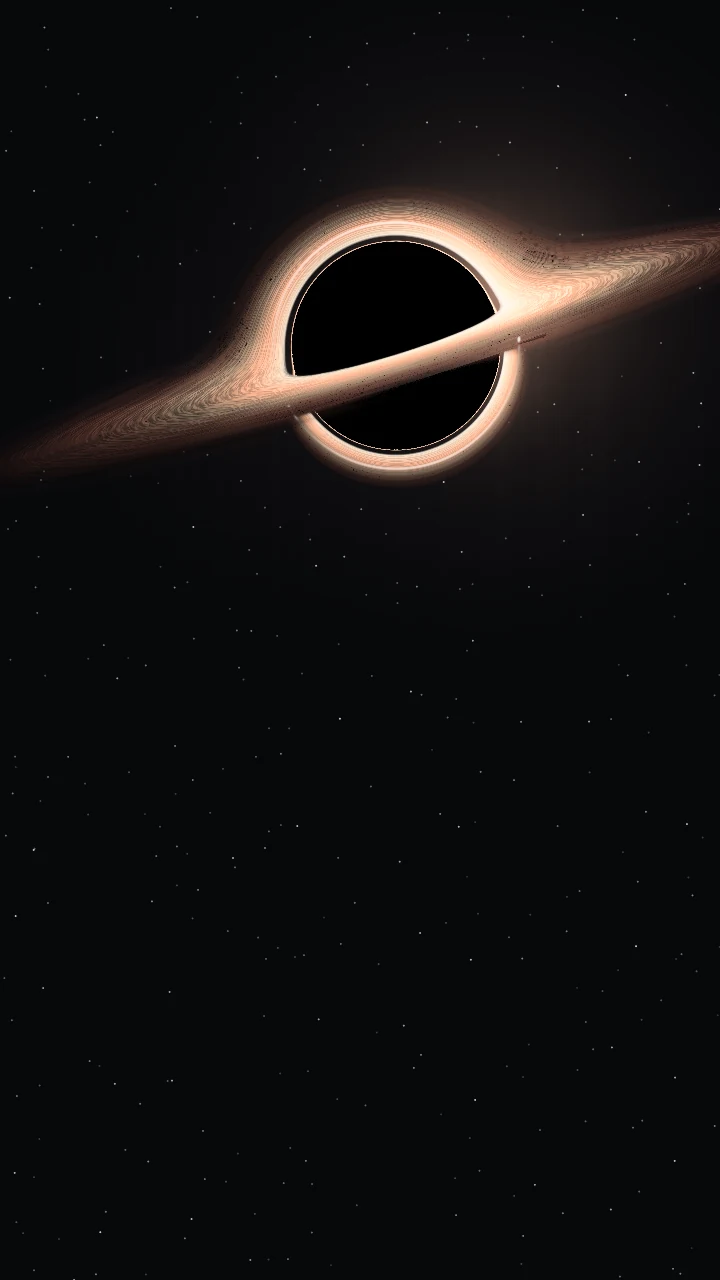
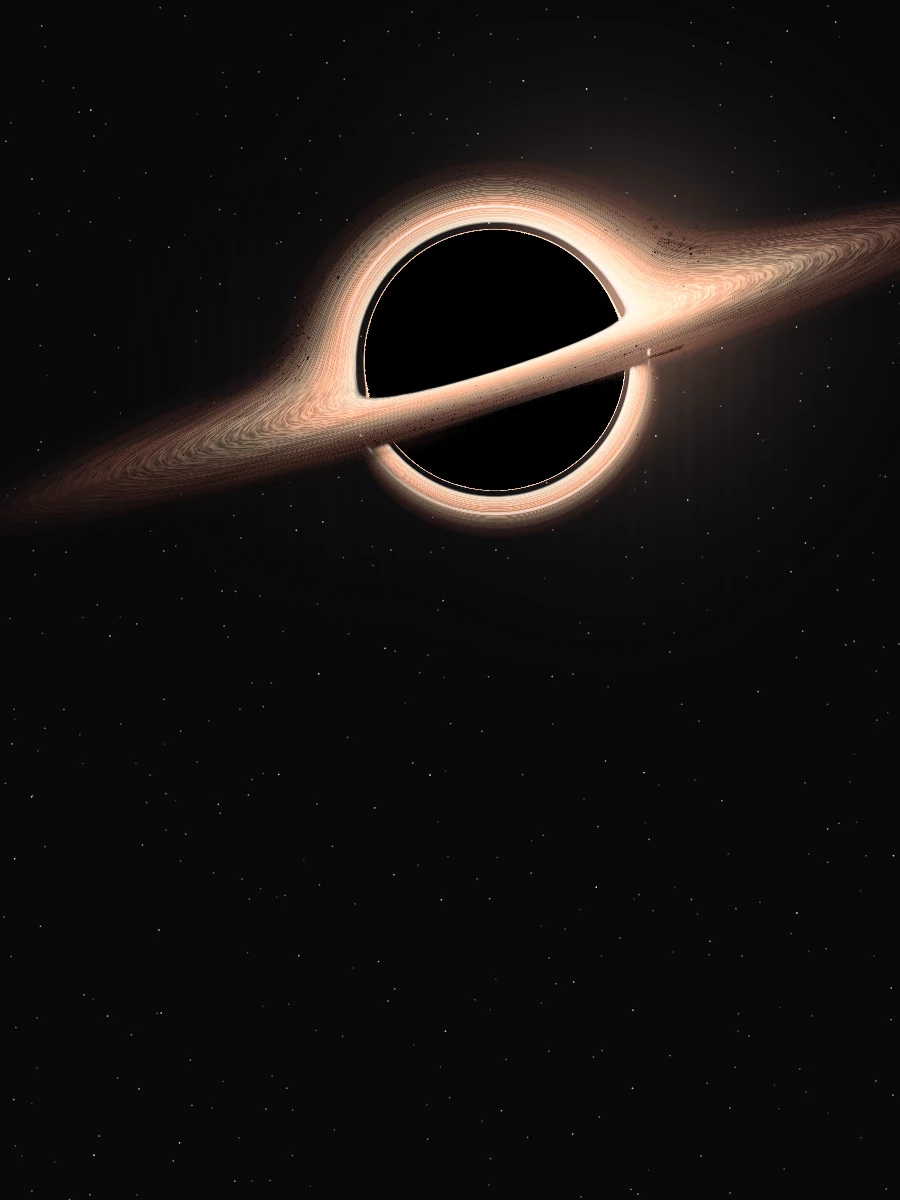
fix(hero): frame guard, 3:4 tall frame, shared aspect breakpoint, localized figures
- Frame-time guard now counts very slow frames (freezes after ~40 s on SwiftShader).
- Tall frame is 3:4 and top-aligned so the black hole stays in view on tablets.
- Hero text layout follows the same aspect query as the poster and canvas.
- Poster scale lives in the stage style (no zoom at hydration).
- 2,780 is written 2.780 in Spanish.

Changed region(s): [[0.0306, 0.1233, 1.0, 0.4625]]

diff --git a/src/components/portfolio/HeroSection.tsx b/src/components/portfolio/HeroSection.tsx
@@ -118,7 +118,7 @@ export function HeroSection() {
         if (last) {
           const dt = now - last;
           counted += 1;
-          if (counted > 8 && dt > 0 && dt < 500) slow += dt;
+          if (counted > 8 && dt > 0) slow += Math.min(dt, 500);
           if (counted === 8 + GUARD_FRAMES && slow / GUARD_FRAMES > GUARD_MAX_AVG_MS) {
             frozen = true;
             setState("frozen");
@@ -167,7 +167,7 @@ export function HeroSection() {
     py.set(((e.clientY - r.top) / r.height - 0.5) * 2);
   };
 
-  const live = state === "live" || state === "frozen";
+  const live = state === "live";
 
   return (
     <section
@@ -197,7 +197,7 @@ export function HeroSection() {
         ref={stageRef}
         aria-hidden="true"
         className="hero-stage absolute inset-0 -z-10"
-        style={reduce || !fine ? undefined : { x: tx, y: ty, scale: 1.03 }}
+        style={{ x: tx, y: ty, scale: 1.03 }}
       >
         <picture>
           <source media={WIDE_QUERY} srcSet={HERO_VARIANTS.wide.poster} />
@@ -205,8 +205,8 @@ export function HeroSection() {
           <img
             src={HERO_VARIANTS.tall.poster}
             alt=""
-            width={720}
-            height={1280}
+            width={900}
+            height={1200}
             fetchPriority="high"
             decoding="async"
             className="hero-poster"
@@ -217,8 +217,8 @@ export function HeroSection() {
       {/* Veil: guarantees text contrast on the left and melts the stage into the page below */}
       <div aria-hidden="true" className="hero-veil pointer-events-none absolute inset-0 -z-10" />
 
-      <div className="relative mx-auto flex w-full max-w-7xl flex-1 flex-col justify-end px-5 pb-14 pt-24 sm:px-8 lg:justify-center lg:pb-16 lg:pt-24">
-        <div className="max-w-[40rem] lg:max-w-[36rem] xl:max-w-[40rem]">
+      <div className="relative mx-auto flex w-full max-w-7xl flex-1 flex-col justify-end px-5 pb-14 pt-24 sm:px-8 wide:justify-center wide:pb-16 wide:pt-24">
+        <div className="max-w-[40rem] wide:max-w-[36rem] xl:wide:max-w-[40rem]">
           <h1
             className="hero-rise font-display text-balance text-[clamp(2.4rem,5.2vw,4.5rem)] font-semibold leading-[0.98] tracking-[-0.035em] text-ink"
             style={{ ["--d" as string]: "60ms", fontVariationSettings: '"opsz" 96' }}
@@ -251,7 +251,7 @@ export function HeroSection() {
         </div>
 
         <p
-          className="hero-rise absolute bottom-5 left-5 right-5 flex items-center gap-2 font-mono text-[11px] leading-snug text-muted sm:left-8 sm:right-8 lg:left-auto lg:max-w-[36ch] lg:justify-end lg:text-right"
+          className="hero-rise absolute bottom-5 left-5 right-5 flex items-center gap-2 font-mono text-[11px] leading-snug text-muted sm:left-8 sm:right-8 wide:left-auto wide:max-w-[36ch] wide:justify-end wide:text-right"
           style={{ ["--d" as string]: "420ms" }}
         >
           <span

diff --git a/src/components/portfolio/WariPortal.tsx b/src/components/portfolio/WariPortal.tsx
@@ -38,9 +38,9 @@ function WariMark({ className }: { className?: string }) {
 
 /** Phone slots: x/y in % of the stage, rotation in degrees, depth for scroll parallax. */
 const SLOTS = [
-  { left: "2%", top: "14%", rot: -7, depth: -26, z: 1, w: 0.82 },
-  { left: "31%", top: "0%", rot: 0, depth: -52, z: 3, w: 1 },
-  { left: "60%", top: "17%", rot: 7, depth: -14, z: 2, w: 0.82 },
+  { left: "0%", top: "14%", rot: -7, depth: -26, z: 1, w: 0.82 },
+  { left: "30%", top: "0%", rot: 0, depth: -52, z: 3, w: 1 },
+  { left: "61%", top: "17%", rot: 7, depth: -14, z: 2, w: 0.82 },
 ] as const;
 
 function Phone({
@@ -140,7 +140,7 @@ export function WariPortal() {
             {WARI.stats.map((stat) => (
               <div key={stat.value}>
                 <dt className="font-wari-display text-[1.9rem] font-semibold leading-none tracking-[-0.03em] tabular-nums sm:text-[2.2rem]">
-                  {stat.value}
+                  {locale === "es" ? stat.valueEs : stat.value}
                 </dt>
                 <dd className="mt-2 text-[12.5px] leading-snug text-[color:var(--wari-ink-2)]">
                   {stat.label[locale]}

diff --git a/src/content/site-copy.ts b/src/content/site-copy.ts
@@ -52,10 +52,10 @@ export const WARI = {
     es: "El nombre viene de 割り勘 (warikan), pagar a partes iguales en japonés. Antes se llamaba Krakount.",
   },
   stats: [
-    { value: "32", label: { en: "currencies, exact to the cent", es: "monedas, exactas al céntimo" } },
-    { value: "2,780", label: { en: "automated tests", es: "tests automáticos" } },
-    { value: "87", label: { en: "database migrations", es: "migraciones de base de datos" } },
-  ] satisfies { value: string; label: LocalizedText }[],
+    { value: "32", valueEs: "32", label: { en: "currencies, exact to the cent", es: "monedas, exactas al céntimo" } },
+    { value: "2,780", valueEs: "2.780", label: { en: "automated tests", es: "tests automáticos" } },
+    { value: "87", valueEs: "87", label: { en: "database migrations", es: "migraciones de base de datos" } },
+  ] satisfies { value: string; valueEs: string; label: LocalizedText }[],
   cta: { en: "Open the Wari website", es: "Abrir la web de Wari" },
   caption: { en: "Screens from the real app", es: "Capturas de la app real" },
 } satisfies Record<string, unknown>;

diff --git a/src/app/globals.css b/src/app/globals.css
@@ -1,5 +1,7 @@
 @import "tailwindcss";
 
+@custom-variant wide (@media (min-aspect-ratio: 5/4));
+
 @theme {
   --font-display: var(--f-display), "Bricolage Grotesque", sans-serif;
   --font-sans: var(--f-sans), "Geist", system-ui, sans-serif;
@@ -326,6 +328,14 @@ html {
   height: 100%;
   object-fit: cover;
   object-position: center;
+}
+
+/* Tall frame on a squarer viewport crops vertically: keep the black hole (top) in view */
+@media (max-aspect-ratio: 1249/1000) {
+  .hero-poster,
+  .hero-canvas {
+    object-position: center top;
+  }
 }
 
 .hero-canvas {

diff --git a/src/components/portfolio/hero/hero-layout.ts b/src/components/portfolio/hero/hero-layout.ts
@@ -28,11 +28,11 @@ export const HERO_VARIANTS: Record<
     place: (w, h) => ({ cx: 0.75 * w, cy: 0.46 * h, shadow: 0.165 * h, margins: WIDE_MARGINS }),
   },
   tall: {
-    aspect: 9 / 16,
-    maxWidth: 720,
+    aspect: 3 / 4,
+    maxWidth: 900,
     minWidth: 540,
     poster: "/media/hero/gargantua-tall.webp",
-    place: (w, h) => ({ cx: 0.55 * w, cy: 0.27 * h, shadow: 0.19 * w, margins: TALL_MARGINS }),
+    place: (w, h) => ({ cx: 0.55 * w, cy: 0.3 * h, shadow: 0.19 * w, margins: TALL_MARGINS }),
   },
 };
 
